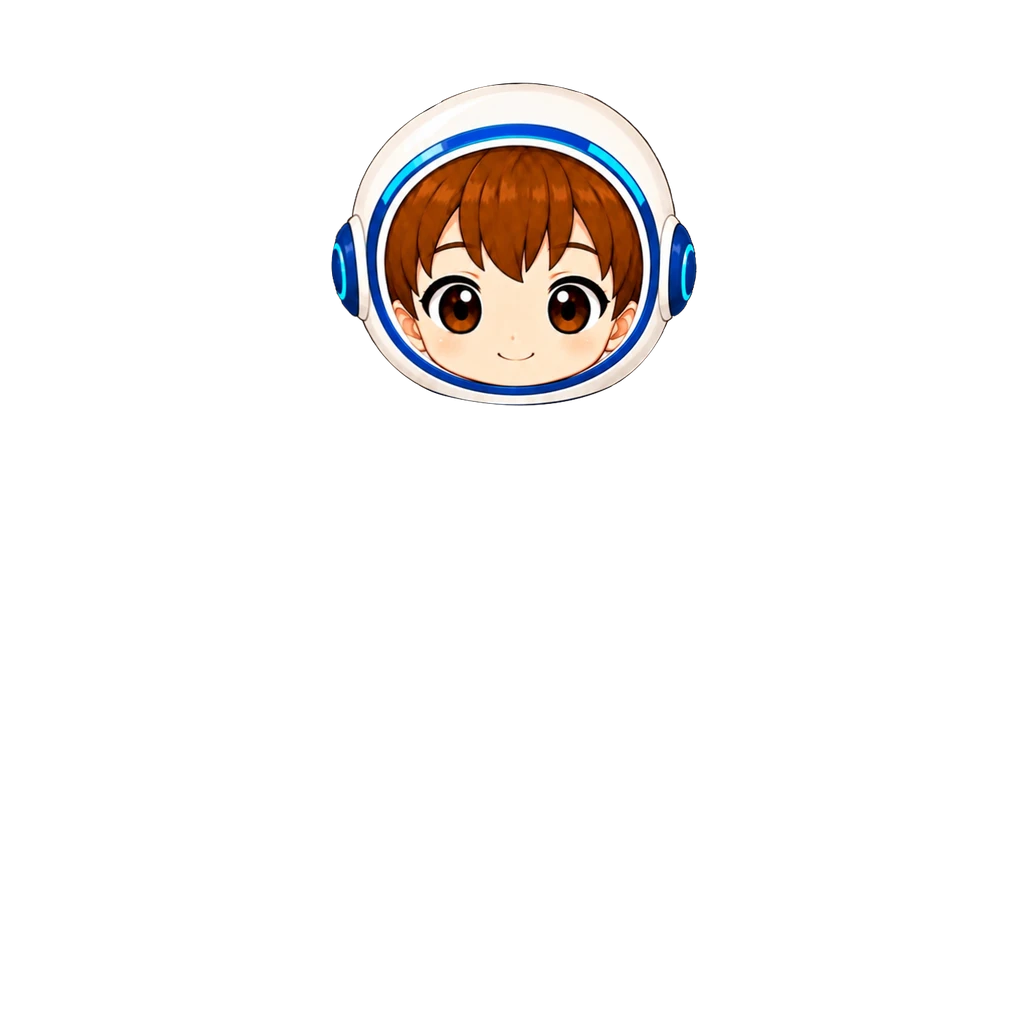
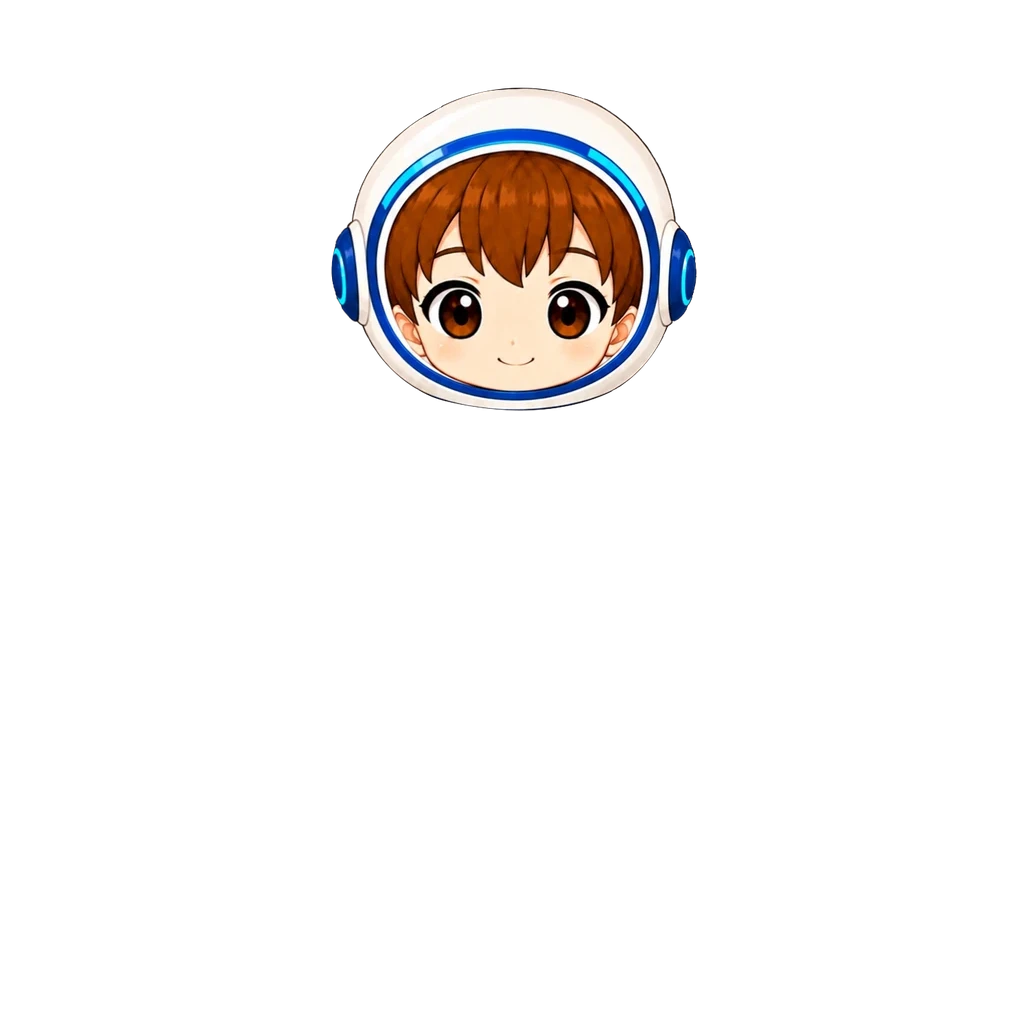
남아 우주 헬멧 5 아래로 · 남아 우주복일 때 신발을 옷 위로 (#930)
* 남아 우주 헬멧 5px 아래로 이동

Claude-Session: https://claude.ai/code/session_018maNuYqDfFyRSe9uKpZhPR

* 신발 레이어링을 옷 위로 올리기 (z: 25→40)

남아 우주복 포함 모든 옷과 조합할 때 신발이 항상 앞에 보이게 한다.
shoes 슬롯 기본 zIndex를 40으로 올려서
상위 모든 상의(top_space z=35 등)보다 위에 렌더링된다.

Claude-Session: https://claude.ai/code/session_018maNuYqDfFyRSe9uKpZhPR

* Revert "신발 레이어링을 옷 위로 올리기 (z: 25→40)"

This reverts commit bbff5228af5ba8dd65a2fa20a78f2cda7d2ccfc5.

* 남아 우주복일 때만 신발을 옷 위로

신발 전체 순서를 바꾼 직전 커밋은 되돌리고, 우주 탐험대 옷에 shoesOverBoy 를 붙여 남아가 입었을 때만 신발이 옷 위에 그려지게 한다. 여아·다른 옷은 그대로.

Claude-Session: https://claude.ai/code/session_018maNuYqDfFyRSe9uKpZhPR

---------

Changed region(s): [[0.3125, 0.0625, 0.6875, 0.4062]]

diff --git a/src/data/avatarEquipment.js b/src/data/avatarEquipment.js
@@ -453,7 +453,7 @@ export const AVATAR_CATALOG = [
      배율 0.7104, 목 중심 새 원화 x212.06 → x511.5, 턱 자리 y0 → y356. 목둘레 안(y0~23, x173~255)과 맨 위(y0~5)의 보라 아닌 픽셀을 지웠다.
      옛 판과 겹침 IoU 0.956. 탑재 상자 (361,356,662,887). imgGirl ?v=5.
      [2026-10-03] 사용자 조정 — 왼쪽으로 2(목 중심 x509.5). 탑재 상자 (359,356,660,887). imgGirl ?v=6. */
-  { id: "top_space",      slot: "top",   label: "우주 탐험대",       emoji: "🚀", labelGirl: "별빛 우주인", emojiGirl: "🪐", price:DECOR_PRICE.epic, rarity: "epic", theme: "space",  coversBottom: true, img: "assets/avatar/top/space-suit-boy.webp?v=11", imgGirl: "assets/avatar/top/space-suit-girl.webp?v=6", thumb: "assets/avatar/thumb/top_space.webp?v=4", thumbGirl: "assets/avatar/thumb/top_space-girl.webp?v=5" },
+  { id: "top_space",      slot: "top",   label: "우주 탐험대",       emoji: "🚀", labelGirl: "별빛 우주인", emojiGirl: "🪐", price:DECOR_PRICE.epic, rarity: "epic", theme: "space",  coversBottom: true, shoesOverBoy: true, img: "assets/avatar/top/space-suit-boy.webp?v=11", imgGirl: "assets/avatar/top/space-suit-girl.webp?v=6", thumb: "assets/avatar/thumb/top_space.webp?v=4", thumbGirl: "assets/avatar/thumb/top_space-girl.webp?v=5" },
 
   /* ── 얼굴 장식 ─────────────────────────────────────────────────────────
      물안경 [2026-10-05] — 남아 첫 얼굴 장식. 하늘색 물안경 + 렌즈 안 눈 그림(사용자 원화 366×154).
@@ -890,7 +890,7 @@ export const computeCharDisplayToggle = (mode) =>
   mode === CHAR_DISPLAY_AVATAR ? CHAR_DISPLAY_GROWTH : CHAR_DISPLAY_AVATAR;
 
 /* ── 완성 아바타 레이어 목록 (뷰어가 map 렌더) ───────────────────────── */
-export const getAvatarLayers = (equippedMap = {}) => {
+export const getAvatarLayers = (equippedMap = {}, gender = "boy") => {
   /* 한 벌 옷을 입고 있으면 하의 장은 아예 안 그린다.
      상점 '입어보기'는 장착 로직을 안 거치고 화면만 겹쳐 보여 주므로 여기서도 막아야 한다. */
   const hideBottom = topCoversBottom(equippedMap);
@@ -903,6 +903,11 @@ export const getAvatarLayers = (equippedMap = {}) => {
          슬롯 기본 순서로는 몸통에 가려지는 장비(탐험 배낭의 어깨끈 등)를 위해. */
       if (!item) return null;
       const main = { key: slot.key, slot: slot.key, item, zIndex: item.z ?? slot.zIndex, emojiPos: slot.emojiPos };
+      /* shoesOverBoy — 남아가 이 옷을 입으면 어떤 신발이든 옷 위로(바짓단이 신발을 덮지 않는 옷). */
+      if (slot.key === "shoes" && gender === "boy") {
+        const top = equippedMap.top ? getAvatarItem(equippedMap.top) : null;
+        if (top?.shoesOverBoy) main.zIndex = Math.max(main.zIndex, (top.z ?? 35) + 2);
+      }
       /* imgFront — 한 아이템이 몸 앞뒤로 나뉘는 경우(가방 몸통은 몸 뒤, 어깨끈은 옷 위).
          앞쪽 장은 zFront 로 따로 그리고, 그림이 없으면 이모지를 또 띄우지 않는다. */
       if (!item.imgFront) return [main];

diff --git a/src/components/AvatarViewer.jsx b/src/components/AvatarViewer.jsx
@@ -198,7 +198,7 @@ function GroundShadow({ size, soleY = BARE_SOLE }) {
 
 export default function AvatarViewer({ equipped = {}, size = 200, showFrame = true, showBg = true, baseCharImg = null, gender = "boy", showShadow = true }) {
   /* showBg=false면 배경 슬롯 장비도 함께 생략 — 홈 무대 씬 위에 사각 배경이 겹치는 것 방지 */
-  const layers = getAvatarLayers(equipped).filter(
+  const layers = getAvatarLayers(equipped, gender).filter(
     (layer) => showBg || layer.item?.slot !== "background"
   );
   /* 얼굴째 덮는 장비(모자 등)를 쓰면 베이스 머리를 그리지 않는다.

diff --git a/art-src/README.md b/art-src/README.md
@@ -625,4 +625,4 @@ bbox로 여백만 잘라내고 배포본은 높이 480px로 축소했다(전부 
 | explorer-pack-boy-src.webp · explorer-pack-straps-boy-src.webp | **해적 가방 원화 남아(처음 이름 탐험 가방) (사용자 원화 2026-10-05)** — 가방 몸통 290×373(가죽 배낭+지도 두루마리)·어깨끈 263×198, 투명 배경. 가방은 몸 뒤(z15) 배율 0.70·원점 (505,350), 끈은 옷 위(zFront 48) 배율 0.76·가운데 x516·위끝 y414. 가방 상자 (505,350,708,611) · 끈 상자 (416,414,616,564). **[2026-10-05 조정]** 왼쪽 끈 →30·오른쪽 끈 ←30, 가방 위로 20·오른쪽 10(원점 (515,330)), 끈 상자 (446,414,586,564) · 가방 상자 (515,330,718,591) · ?v=2. 끈만 다시: 처음 자리에서 버클 아래 바깥 끝선을 옆구리 선에 맞춰 왼쪽 끈 →15·오른쪽 끈 ←17, 끈 상자 (431,414,599,564) · imgFront ?v=3. 끈 윗선을 어깨선에 맞춰 왼쪽 위로 7·오른쪽 위로 6, 끈 상자 (431,407,599,557) · imgFront ?v=4. 가방 몸통 아래로 10·왼쪽 7(원점 (508,340)), 가방 상자 (508,340,711,601) · img ?v=3. 끈 윗선을 꼬마 해적단 옷 어깨선에 맞춰 양쪽 위로 4, 끈 상자 (431,403,599,553) · imgFront ?v=5. 해적 옷 수정 뒤 다시 맞춤: 왼쪽 끈 ←3·↓3, 오른쪽 끈 →1·↓4, 끈 상자 (428,406,600,556) · imgFront ?v=6. 상점 그림은 가방 원화를 세로 160px 로 | avatar/back/explorer-pack-boy.webp · explorer-pack-straps-boy.webp · thumb/back_explorer.webp |
 | pirate-boy-worn-src.webp | **꼬마 해적단 남아 탑재 조정 기록 (2026-10-05)** — 원본 행이 없어 조정만 남긴다. 사용자 조정: 남아 그림만 아래로 3, 탑재 상자 (356,395,673,766) → (356,398,673,769) · img ?v=2. 이어서 2% 크게(원화 배율 0.59329→0.60516, 깃 위 가운데 고정)·아래로 1, 원화 원점 (263,-37), 상자 (353,399,676,777) · img ?v=3. 이어서 왼쪽 1, 원점 (262,-37), 상자 (352,399,675,777) · img ?v=4. 여아 그림(imgGirl)은 그대로 | avatar/top/pirate-outfit-boy.webp |
 | lightning-board-boy-src.webp | **번개 보드 원화 남아 (사용자 원화 2026-10-05)** — 검정 데크·파란 번개·형광 바퀴 229×663, 투명 배경. 사용자 배치 그림의 얼굴을 기본 머리에 맞춰(일치 0.966·배율 0.665) 보드 자리를 옮겨 옴: 배율 0.6269·원점 (587,441), 상자 (587,441,731,857). 손 장비 슬롯, z 12(가장 뒤). 상점 그림은 원화를 세로 160px 로 | avatar/hand/lightning-board-boy.webp · thumb/hand_board_boy.webp |
-| space-helmet-boy-src.webp | **우주 헬멧 원화 남아 — 헬멧+얼굴 한 장 (사용자 원화 2026-10-05)** — 흰 우주 헬멧(파란 테·귀 장치). hidesHead 로 기본 머리를 대신한다. 얼굴 템플릿 매칭(일치 0.923)으로 배율 0.684·원점 (330,80), 아래 테두리가 목 위끝을 덮어 자르지 않음. 탑재 상자 (330,80,697,406). 상점 그림은 원화를 세로 160px 로 | avatar/hat/space-helmet-boy.webp · thumb/hat_helmet_boy.webp |
+| space-helmet-boy-src.webp | **우주 헬멧 원화 남아 — 헬멧+얼굴 한 장 (사용자 원화 2026-10-05)** — 흰 우주 헬멧(파란 테·귀 장치). hidesHead 로 기본 머리를 대신한다. 얼굴 템플릿 매칭(일치 0.923)으로 배율 0.684·원점 (330,85), 아래 테두리가 목 위끝을 덮어 자르지 않음. 탑재 상자 (330,80,697,406). 상점 그림은 원화를 세로 160px 로 | avatar/hat/space-helmet-boy.webp · thumb/hat_helmet_boy.webp |
